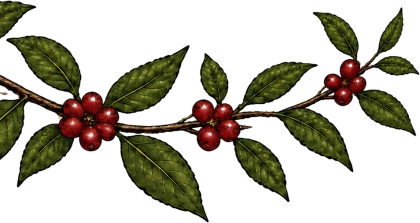
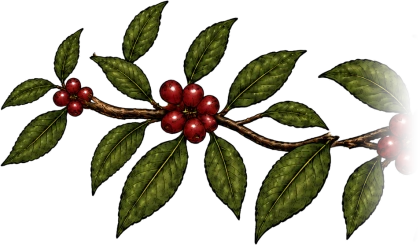
fix: o pedaco do ramo no celular sai da ponta, e o corte some numa rampa
O recorte estava saindo do meio do ramo, entao a borda de fora, a que
encosta no canto da tela, era uma folha fatiada rente. Agora o pedaco
guardado e' o da PONTA: a ponta e' um fim que o desenhista desenhou, e
o corte vai para o lado de dentro, encostado no titulo.

Mesmo do lado de dentro o corte era seco, entao o alfa desce numa rampa
suavizada nos ultimos 17% da largura: o ramo nao acaba, some.

As duas fracoes foram acertadas para dar a mesma proporcao nos dois
lados (420x245 e 420x250), senao um ficaria visivelmente mais alto que
o outro ao lado do mesmo titulo.

diff --git a/src/index.css b/src/index.css
@@ -145,10 +145,10 @@
   .ramo-lado-dir img { aspect-ratio: 760 / 244; }
   @media (max-width: 639px) {
     .rubrica { letter-spacing: 0.08em; text-indent: 0.08em; }
-    /* o pedaço do ramo é quase três vezes mais alto em relação à largura, e é
+    /* o pedaço do ramo é quase duas vezes mais alto em relação à largura, e é
        o que o faz continuar sendo desenho em setenta pixels */
-    .ramo-lado-esq img { aspect-ratio: 420 / 223; }
-    .ramo-lado-dir img { aspect-ratio: 420 / 227; }
+    .ramo-lado-esq img { aspect-ratio: 420 / 245; }
+    .ramo-lado-dir img { aspect-ratio: 420 / 250; }
     .ramo-titulo { min-width: 68px; max-width: 32%; }
   }
   /* no bloco escuro a arte some: as folhas verdes contra o marrom quase não
